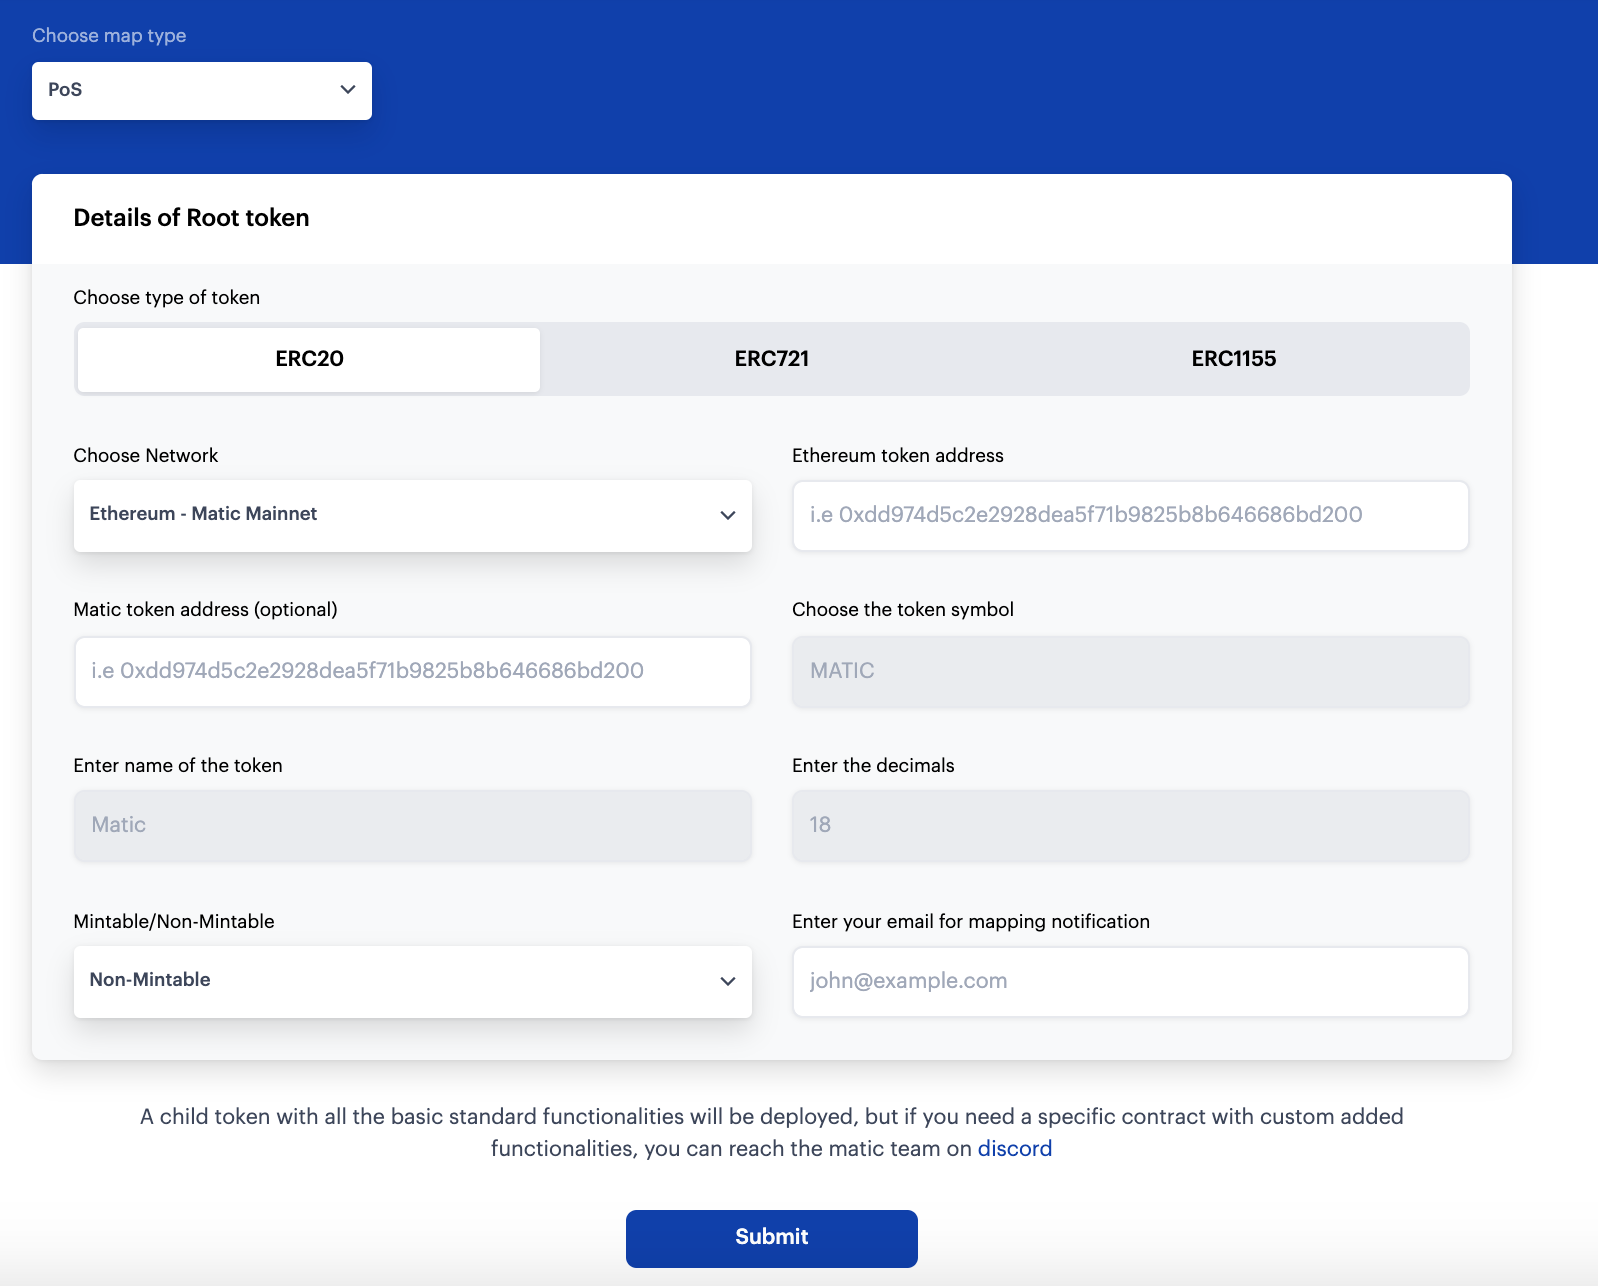
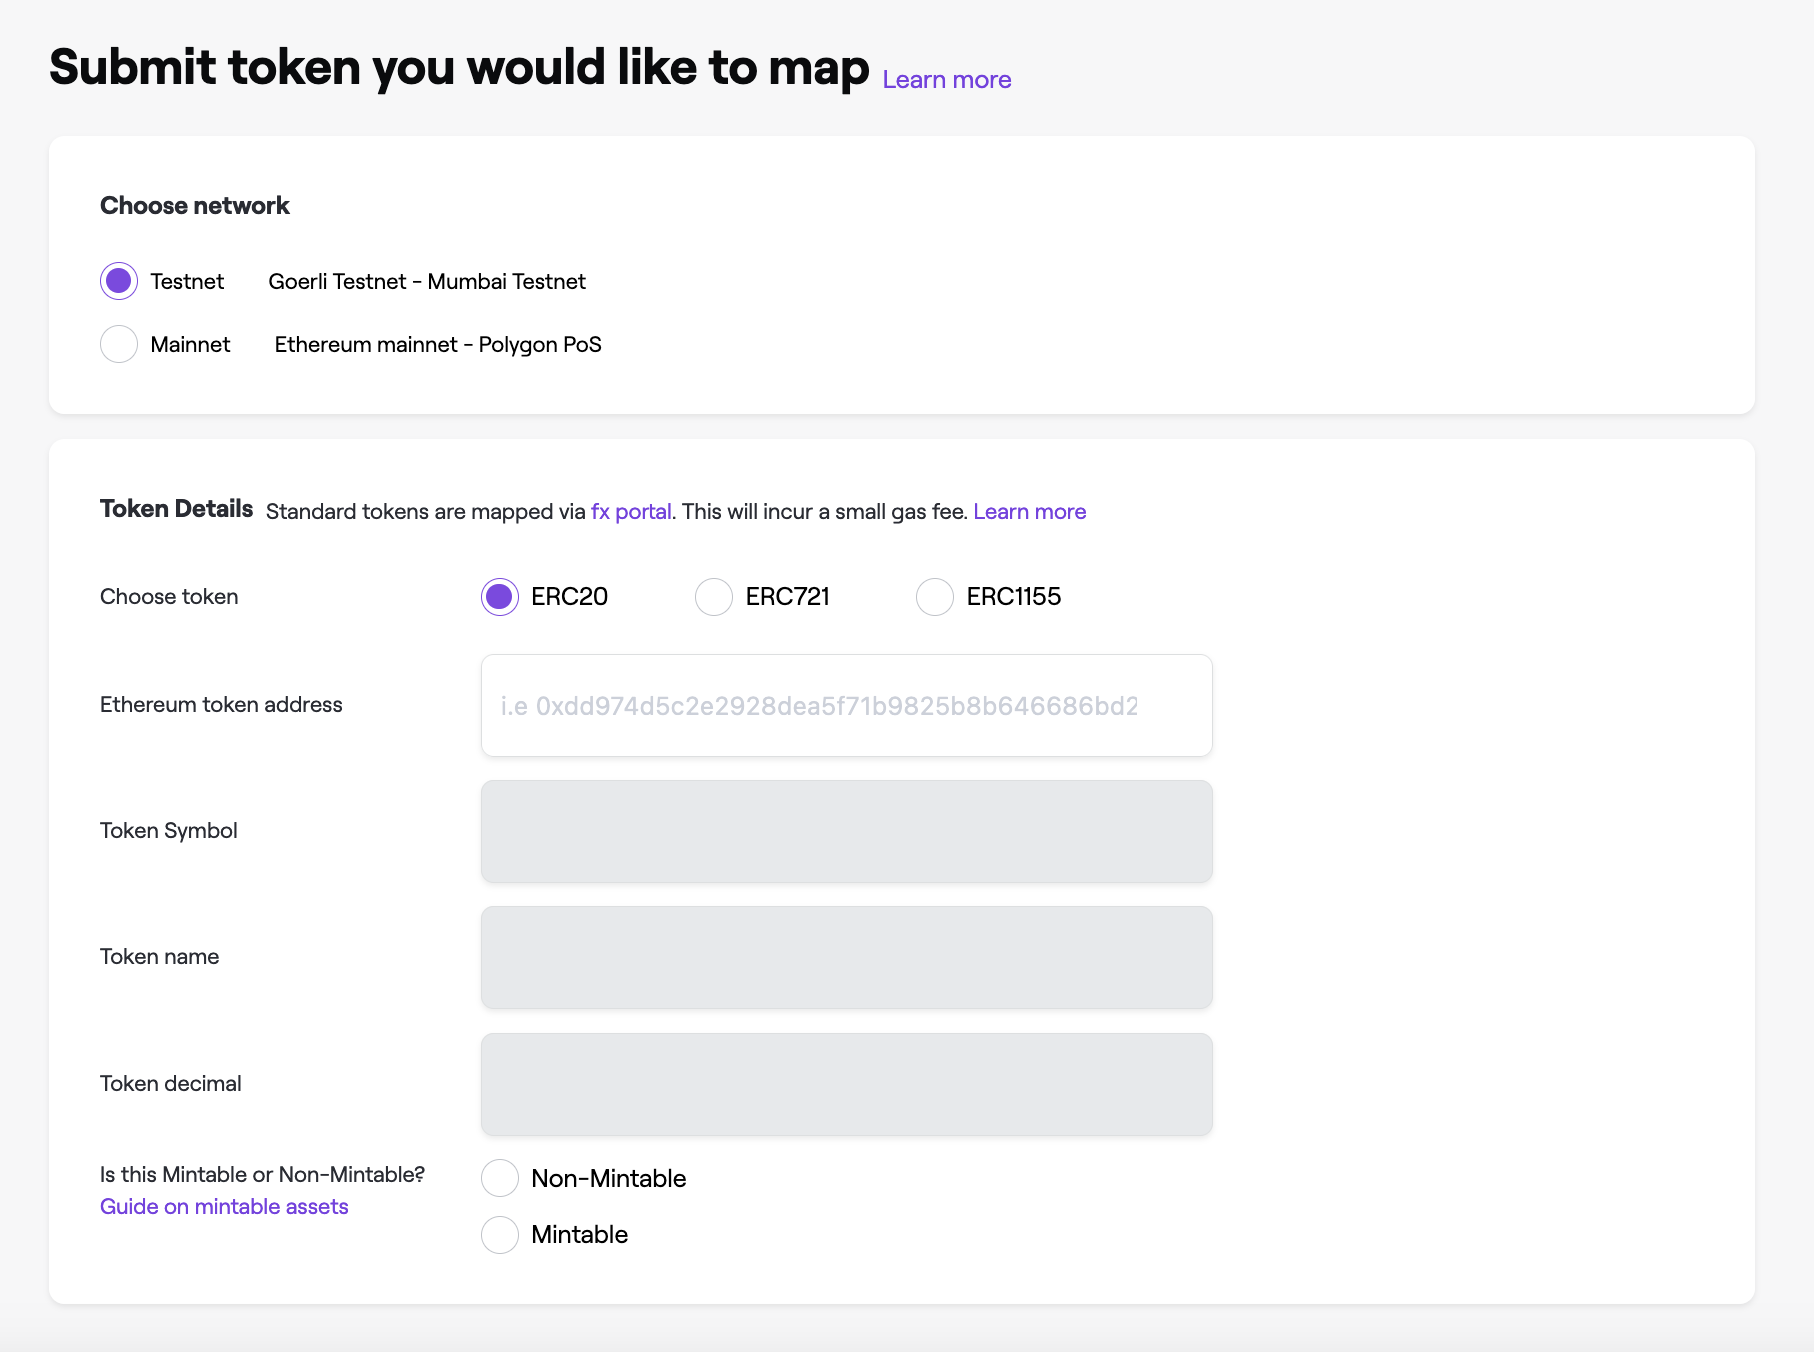
Update Token Mapper guide and Polygon Wiki thumbnail (#1192)
* Update submit-mapping-request.md

* Delete mapping-tool.png

* Add files via upload

* Add Polygon Wiki thumbnail

* Add Polygon Wiki thumbnail for metadata

* Update docs/develop/ethereum-polygon/submit-mapping-request.md

* Update docs/develop/ethereum-polygon/submit-mapping-request.md

* Update docs/develop/ethereum-polygon/submit-mapping-request.md

* Update docs/develop/ethereum-polygon/submit-mapping-request.md

* Update docs/develop/ethereum-polygon/submit-mapping-request.md

* Update docs/develop/ethereum-polygon/submit-mapping-request.md

* Update docs/develop/ethereum-polygon/submit-mapping-request.md

* Update docs/develop/ethereum-polygon/submit-mapping-request.md

* Update docs/develop/ethereum-polygon/submit-mapping-request.md

* Update docs/develop/ethereum-polygon/submit-mapping-request.md

* Update docs/develop/ethereum-polygon/submit-mapping-request.md

* Update submit-mapping-request.md

diff --git a/docusaurus.config.js b/docusaurus.config.js
@@ -228,7 +228,7 @@ module.exports = {
     },
     copyright: `Copyright © ${new Date().getFullYear()} Polygon Technology`,
     },
-    image: "https://matic.network/banners/matic-network-16x9.png",
+    image: 'img/polygon-wiki.png',
     prism: {
       theme: require("prism-react-renderer/themes/github"),
       darkTheme: require("prism-react-renderer/themes/dracula"),

diff --git a/docs/develop/ethereum-polygon/submit-mapping-request.md b/docs/develop/ethereum-polygon/submit-mapping-request.md
@@ -1,10 +1,13 @@
 ---
 id: submit-mapping-request
-title: Mapping Request
-description:  "Steps to submit a mapping request."
+title: Mapping Tokens
+description:  A guide on how to map tokens between Ethereum and Polygon Chains using the PoS Bridge
 keywords:
   - docs
   - matic
+  - token mapping
+  - pos bridge
+  - polygon
 image: https://matic.network/banners/matic-network-16x9.png
 ---
 
@@ -14,7 +17,13 @@ Mapping is necessary in order to transfer your assets to and from the Ethereum a
 
 ### Steps to submit a mapping request
 
-The mapping request has to be submitted on [https://mapper.polygon.technology/](https://mapper.polygon.technology/). You can then click on the "Map New Token" button on the top right corner to create a new mapping request.
+The Polygon PoS bridge is available for both mainnet as well as Mumbai testnet. More information about the bridge can be found [<ins>here</ins>](/docs/develop/ethereum-polygon/pos/getting-started).
+
+:::
+
+## How to submit a mapping request
+
+In order to map tokens between Ethereum and Polygon, you have to submit a mapping request. It has to be submitted on [https://mapper.polygon.technology/](https://mapper.polygon.technology/). Open the link and click on the **'Map New Token'** button on the top right corner to create a new mapping request.
 
 <img src={useBaseUrl("img/token-mapping/mapping-tool.png")} />
 
@@ -34,13 +43,38 @@ In  case of a custom child mapping, there is a checklist that you need to finish
 
 **Non Polygon-Mintable**
 
-1. The deposit and withdraw functions are present on the child token contract. (Reference Template contract - [ERC20](https://github.com/maticnetwork/pos-portal/blob/master/flat/ChildERC20.sol#L1492-#L1508), [ERC721](https://github.com/maticnetwork/pos-portal/blob/master/flat/ChildERC721.sol#L2157-#L2238), [ERC1155](https://github.com/maticnetwork/pos-portal/blob/master/flat/ChildERC1155.sol#L1784-#L1818))
-2. Only the ChildChainManagerProxy address has the right to call the deposit function. (ChildChainManagerProxy - on [Mumbai](https://mumbai.polygonscan.com/address/0xb5505a6d998549090530911180f38aC5130101c6/transactions) , on [Polygon Mainnet](https://polygonscan.com/address/0xA6FA4fB5f76172d178d61B04b0ecd319C5d1C0aa/) )
-3. Mint function is an internal function ( This gets called by deposit function internally )
+The tokens to be minted on Polygon and subsequently migrated to Ethereum are called **mintable tokens**, whereas tokens that already exist on Ethereum and are migrated over to Polygon are referred to as **non-mintable tokens**.
+
+:::
+
+In the case where you require custom token mapping, you can visit the [Fx-Portal](/docs/develop/l1-l2-communication/fx-portal) and use the data provided to build your custom token.
+
+## Mapping checklist
+
+### Mintable tokens
+
+:::tip
+
+Checkout the documentation for mintable tokens available at [<ins>https://wiki.polygon.technology/docs/develop/ethereum-polygon/mintable-assets</ins>](/docs/develop/ethereum-polygon/mintable-assets).
 
 **Polygon Mintable ( guide -** [https://docs.polygon.technology/docs/develop/ethereum-polygon/mintable-assets](https://docs.polygon.technology/docs/develop/ethereum-polygon/mintable-assets) )
 
-1. The deposit and withdraw function is present in the child token contract. (Reference Template contract - [ERC20](https://github.com/maticnetwork/pos-portal/blob/master/flat/ChildMintableERC20.sol#L1492-#L1519), [ERC721](https://github.com/maticnetwork/pos-portal/blob/master/flat/ChildMintableERC721.sol#L2160-#L2275), [ERC1155](https://github.com/maticnetwork/pos-portal/blob/master/flat/ChildMintableERC1155.sol#L1784-#L1851))
+1. The `deposit` and `withdraw` function is present in the *child* token contract. (Reference Template contract - [ERC20](https://github.com/maticnetwork/pos-portal/blob/master/flat/ChildMintableERC20.sol#L1492-#L1519), [ERC721](https://github.com/maticnetwork/pos-portal/blob/master/flat/ChildMintableERC721.sol#L2160-#L2275), [ERC1155](https://github.com/maticnetwork/pos-portal/blob/master/flat/ChildMintableERC1155.sol#L1784-#L1851))
 2. Only the ChildChainManagerProxy address has the right to call the deposit function. (ChildChainManagerProxy - on [Mumbai](https://mumbai.polygonscan.com/address/0xb5505a6d998549090530911180f38aC5130101c6/transactions) , on [Polygon Mainnet](https://polygonscan.com/address/0xA6FA4fB5f76172d178d61B04b0ecd319C5d1C0aa/) )
 3. The root chain contract is a standard [ERC20](https://github.com/maticnetwork/pos-portal/blob/master/flat/DummyMintableERC20.sol#L1481)/[ERC721](https://github.com/maticnetwork/pos-portal/blob/master/flat/DummyMintableERC721.sol#L2169)/[ERC1155](https://github.com/maticnetwork/pos-portal/blob/master/flat/DummyMintableERC1155.sol#L1785)
-4.  The mint function on the root contract can only be called by the corresponding token, PredicateProxyAddress (PredicateProxy addresses for each token type can be found [here](/docs/develop/ethereum-polygon/mintable-assets#contract-to-be-deployed-on-ethereum).
+4. The `mint` function on the *root* contract can only be called by the corresponding token, **PredicateProxyAddress**. (PredicateProxyAddress for each token type can be found [here](/docs/develop/ethereum-polygon/mintable-assets#contract-to-be-deployed-on-ethereum)).
+
+### Non-mintable tokens
+
+1. The deposit and withdraw functions are present in the child token contract. (Reference Template Contract - [ERC20](https://github.com/maticnetwork/pos-portal/blob/master/flat/ChildERC20.sol#L1492-#L1508), [ERC721](https://github.com/maticnetwork/pos-portal/blob/master/flat/ChildERC721.sol#L2157-#L2238), [ERC1155](https://github.com/maticnetwork/pos-portal/blob/master/flat/ChildERC1155.sol#L1784-#L1818))
+2. Only the **ChildChainManagerProxy** address has the right to call the deposit function. (ChildChainManagerProxy - on [Mumbai](https://mumbai.polygonscan.com/address/0xb5505a6d998549090530911180f38aC5130101c6/transactions) , on [Polygon Mainnet](https://polygonscan.com/address/0xA6FA4fB5f76172d178d61B04b0ecd319C5d1C0aa/))
+3. Mint function is an internal function. (This gets called by deposit function internally)
+
+## Video guide
+
+Here is a quick video tutorial on how to map tokens between **Ethereum Goerli &harr; Polygon Mumbai Testnet**:
+
+<video autoplay width="100%" height="100%" controls="true" >
+  <source type="video/mp4" src="/img/token-mapping/token-mapping-tutorial.mp4"></source>
+  <p>Your browser does not support the video element.</p>
+</video>
